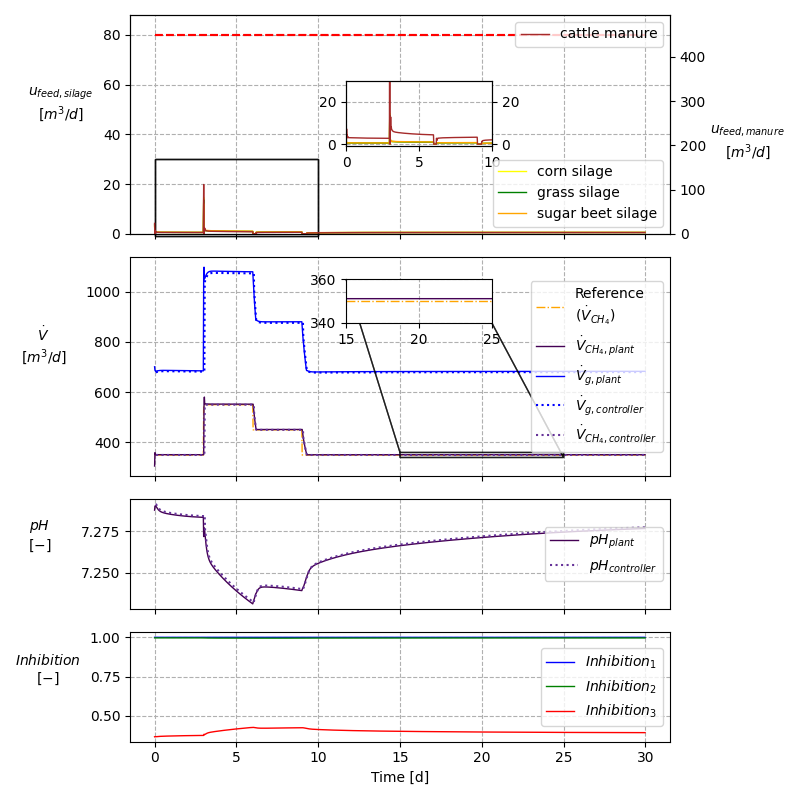
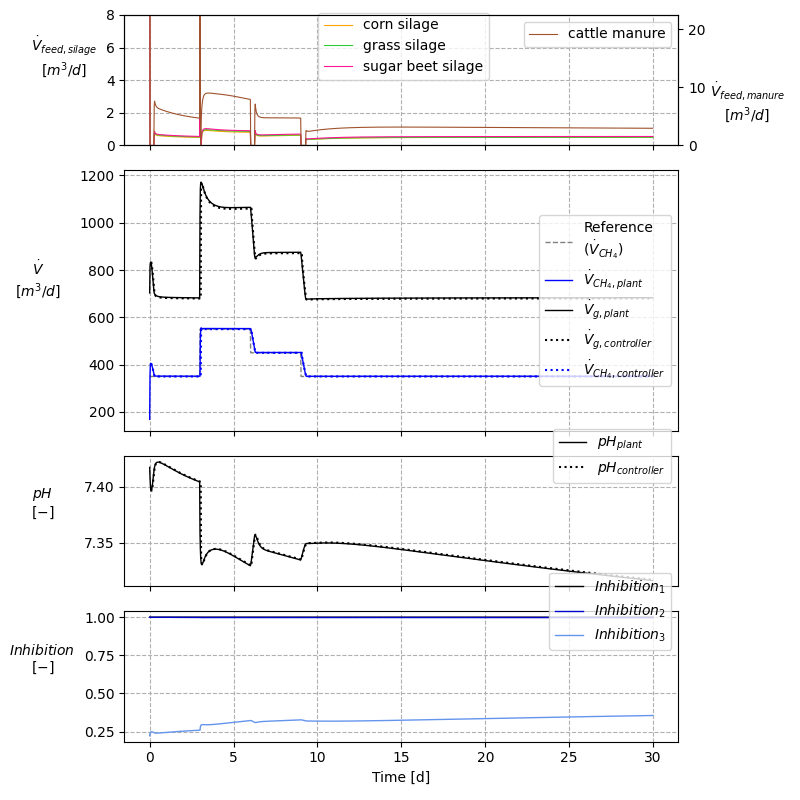
Scenario 1a ok

diff --git a/ad_meal_prep_control/plot_generation/plot_scenario_1a.py b/ad_meal_prep_control/plot_generation/plot_scenario_1a.py
@@ -37,13 +37,13 @@ for scenario_name, plot_save_name in zip(scenario_names, plot_save_names):
                 {
                     "v_ch4_dot_tank_in_setpoint": PlotVarProperty(
                         mpl_properties=MPLProperties(
-                            color="silver", linewidth=1, linestyle="--"
+                            color="grey", linewidth=1, linestyle="dashed"
                         ),
                         label=r"Reference" "\n" "($\dot V_{CH_4}$)",
                     ),
                     "v_ch4_dot_tank_in": PlotVarProperty(
                         mpl_properties=MPLProperties(
-                            color='black',
+                            color='blue',
                             linewidth=1,
                             linestyle="-",
                         ),
@@ -51,7 +51,7 @@ for scenario_name, plot_save_name in zip(scenario_names, plot_save_names):
                     ),
                     "y_1": PlotVarProperty(
                         mpl_properties=MPLProperties(
-                            color="blue", linewidth=1, linestyle="-"
+                            color="black", linewidth=1, linestyle="-"
                         ),
                         label=r"$\dot V_{g, plant}$",
                     ),
@@ -73,19 +73,19 @@ for scenario_name, plot_save_name in zip(scenario_names, plot_save_names):
                 {
                     "inhibition_1": PlotVarProperty(
                         mpl_properties=MPLProperties(
-                            color="blue", linewidth=1, linestyle="-"
+                            color="black", linewidth=1, linestyle="-"
                         ),
                         label=r"$Inhibition_1$",
                     ),
                     "inhibition_2": PlotVarProperty(
                         mpl_properties=MPLProperties(
-                            color="green", linewidth=1, linestyle="-"
+                            color="mediumblue", linewidth=1, linestyle="-"
                         ),
                         label=r"$Inhibition_2$",
                     ),
                     "inhibition_3": PlotVarProperty(
                         mpl_properties=MPLProperties(
-                            color="red", linewidth=1, linestyle="-"
+                            color="cornflowerblue", linewidth=1, linestyle="-"
                         ),
                         label=r"$Inhibition_3$",
                     ),
@@ -93,21 +93,21 @@ for scenario_name, plot_save_name in zip(scenario_names, plot_save_names):
             ),
         ],
         plot_save_name=plot_save_name,
-        input_inset_axis={
-            "days": (0, 10),
-            "ylimit": (-1.0, 30.0),
-            "inset_axis_specs": (0.4, 0.4, 0.27, 0.3),
-        },
-        other_inset_axes=[
-            {
-                "plot_idx": 1,
-                "days": (15, 25),
-                "ylimit": (340, 360),
-                "inset_axis_specs": (0.4, 0.7, 0.27, 0.2),
-            },
-        ],
+        #input_inset_axis={
+        #    "days": (0, 10),
+        #    "ylimit": (-1.0, 30.0),
+        #    "inset_axis_specs": (0.4, 0.4, 0.27, 0.3),
+        #},
+        #other_inset_axes=[
+        #    {
+        #        "plot_idx": 1,
+        #        "days": (15, 25),
+        #        "ylimit": (340, 360),
+        #        "inset_axis_specs": (0.4, 0.7, 0.27, 0.2),
+        #    },
+        #],
         dpi=dpi,
         show_plot=show_plot,
-        height_ratios=[2, 2, 1, 1],
+        height_ratios=[1, 2, 1, 1],
     )
 controller_plotting_1a()

diff --git a/ad_meal_prep_control/postprocessing.py b/ad_meal_prep_control/postprocessing.py
@@ -301,19 +301,19 @@ class PostProcessing:
                             # label=r"$u_{max}$",
                         )
 
-                        if 'Scenario_1b' in plot_save_name:
+                        if 'Scenario_1' in plot_save_name:
                             ax.set_ylim(
-                                0.0, self._scenario_meta_data["u_max"]["solid"] * 0.05
+                                0.0, self._scenario_meta_data["u_max"]["solid"] * 0.1
                             )
                             ax_inputs_liquid.set_ylim(
-                                0.0, self._scenario_meta_data["u_max"]["liquid"] * 0.02
+                                0.0, self._scenario_meta_data["u_max"]["liquid"] * 0.05
                             )
-                        elif 'Scenario_1a' in plot_save_name:
+                        elif 'Scenario_2a' or 'Scenario_2c' in plot_save_name:
                             ax.set_ylim(
-                                0.0, self._scenario_meta_data["u_max"]["solid"] * 1
+                                0.0, self._scenario_meta_data["u_max"]["solid"] * 1.1
                             )
                             ax_inputs_liquid.set_ylim(
-                                0.0, self._scenario_meta_data["u_max"]["liquid"] * 0.5
+                                0.0, self._scenario_meta_data["u_max"]["liquid"] * 1.1
                             )
 
                     elif plot_var_name.startswith("dictated_sub_feed"):
